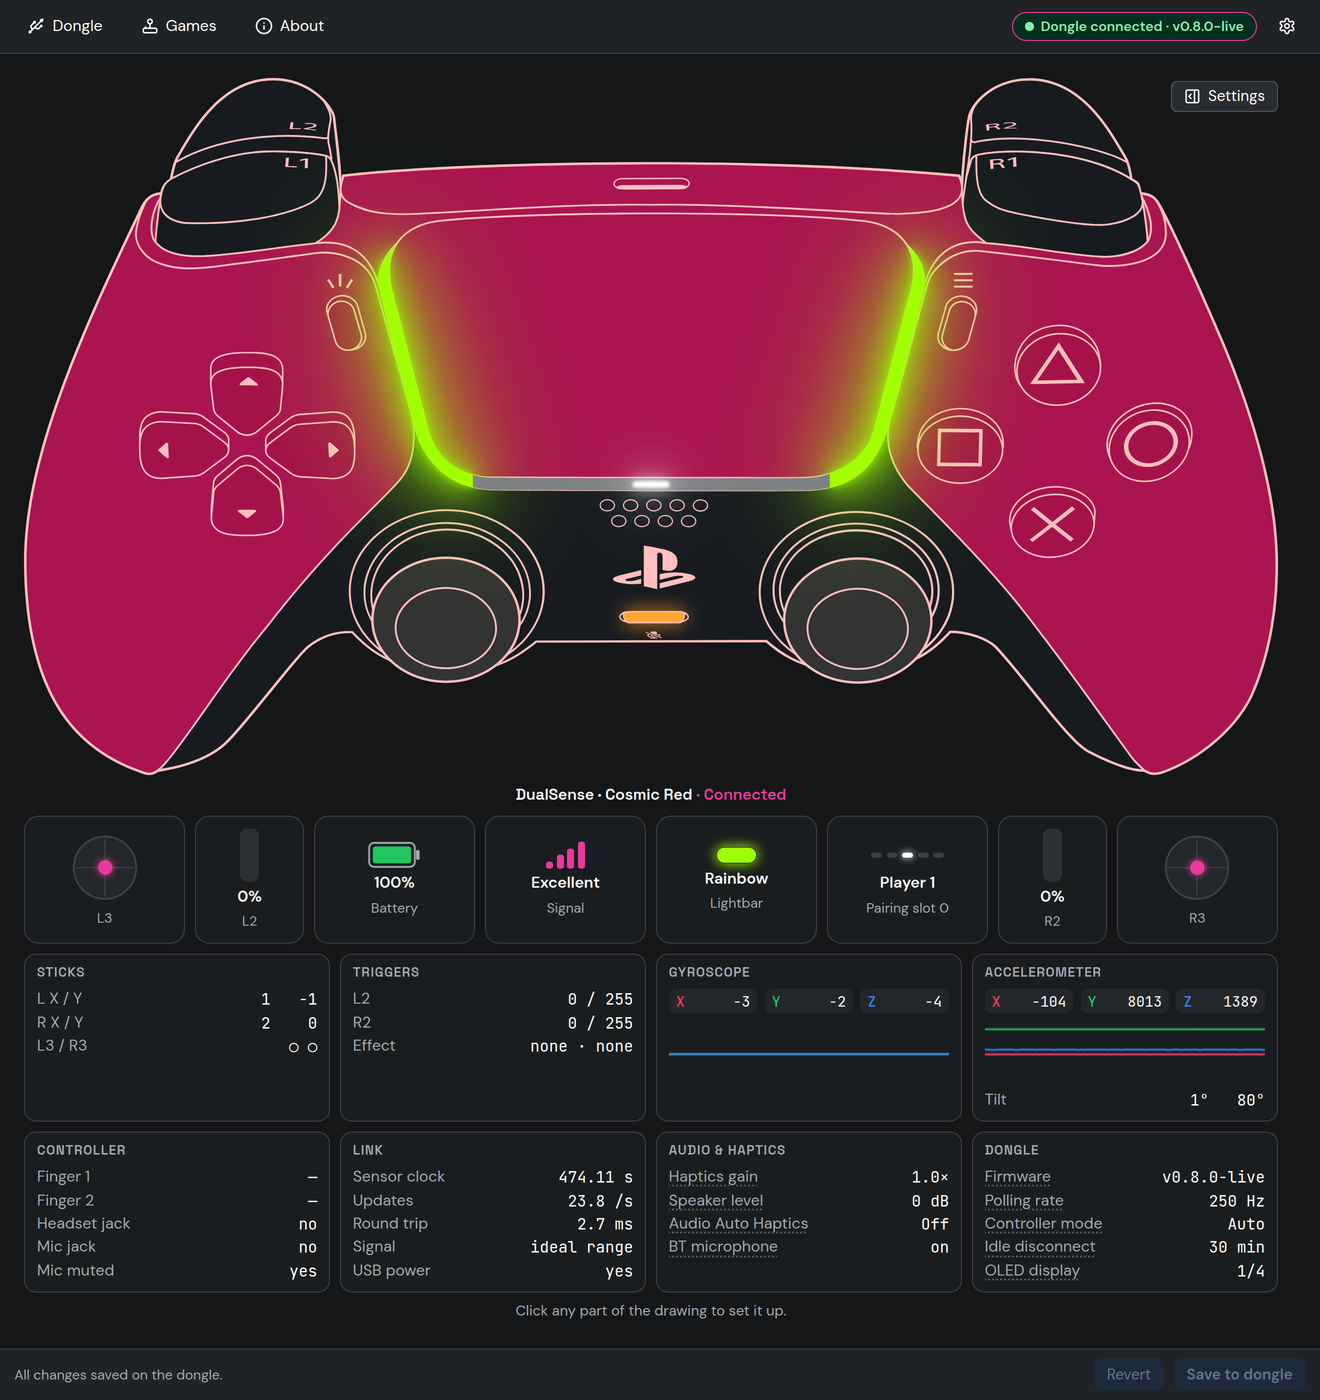
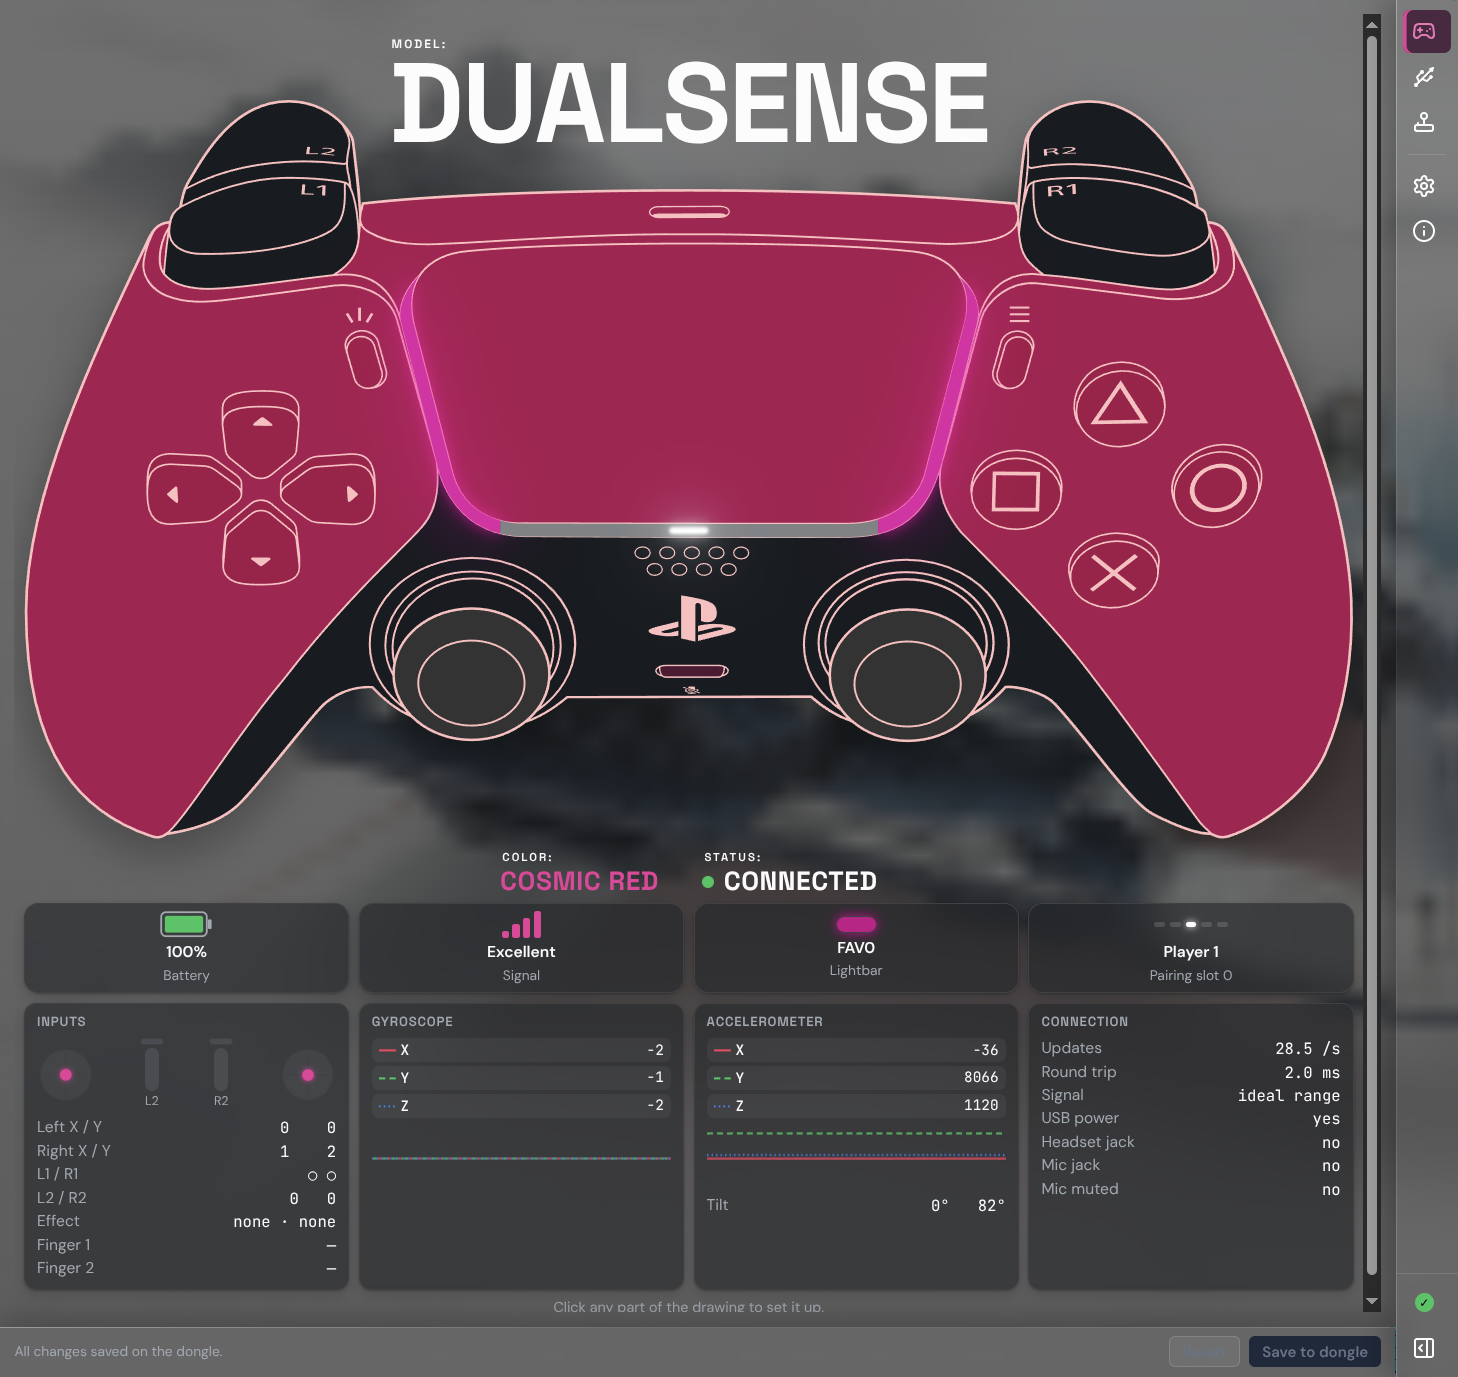
docs: guide screenshots in one fixed look; real hardware photo
13 app screenshots for docs/GUIDE.md (and the README's main image), all
taken with tools/screenshot_env.mjs in the saved look (docs/screenshots/
look.json), now pinning one game's art for every shot (Galactic Racer;
ds5.dev.backdropGame, honored only by ArtBackdrop, screenshots only).
The hardware picture is Marcy's photo of a finished dongle; the guide
now says to seat the OLED with KEY0/KEY1 away from the USB port, as
built. The setup-screen shot is skipped. Old, unused screenshots
removed (the marketing folder keeps its own full-size copies).

Backlog: guide and screenshots done.

diff --git a/src/desktop/live/ArtBackdrop.tsx b/src/desktop/live/ArtBackdrop.tsx
@@ -10,7 +10,7 @@
 import { useEffect, useRef, useState, useSyncExternalStore } from "react";
 import { knob, useKnob } from "../lookKnobs";
 import type { ColorwayColors } from "./colorways";
-import { useFlagPref } from "../storage";
+import { useFlagPref, readPref } from "../storage";
 import { artUrl } from "../games/types";
 
 export const BACKDROP_KEY = "ds5.artBackdropOff";
@@ -28,9 +28,14 @@ const subscribePage = (l: () => void) => {
   return () => pageListeners.delete(l);
 };
 
+// Screenshots only (tools/screenshot_env.mjs): one game's art everywhere,
+// named by launcher and id ("steam:4078430"), so every shot matches.
+const PIN_KEY = "ds5.dev.backdropGame";
+
 // The open game page's art, else the running game's, else the most recently
 // played games in turn.
 function useBackdropKeys(): string[] {
+  const pin = readPref(PIN_KEY);
   const page = useSyncExternalStore(subscribePage, () => pageGame);
   const desktop = window.desktop;
   const [keys, setKeys] = useState<string[]>([]);
@@ -65,6 +70,10 @@ function useBackdropKeys(): string[] {
       off();
     };
   }, [desktop]);
+  if (pin) {
+    const pinned = keys.find((k) => k.endsWith(`:${pin}`));
+    if (pinned) return [pinned];
+  }
   if (page) return [page];
   return running && keys.includes(running) ? [running] : keys;
 }

diff --git a/docs/BACKLOG.md b/docs/BACKLOG.md
@@ -21,8 +21,6 @@ _Idea_ (noted, not decided) · _Open_ (a known problem, not yet scheduled).
 
 | Item                         | Status                                                                                                                                                                                                                                                                                                                                                                                     | Priority | Detail                                       |
 | ---------------------------- | ------------------------------------------------------------------------------------------------------------------------------------------------------------------------------------------------------------------------------------------------------------------------------------------------------------------------------------------------------------------------------------------ | -------- | -------------------------------------------- |
-| Step-by-step guide           | **Agreed.** `docs/GUIDE.md`, shown in About -> Guide instead of the README: hardware (parts, headers, seating the OLED, a data cable, USB 2.0 port vs USB 3.0 radio noise), getting started, each page and panel with its own screenshot, troubleshooting. README trimmed to an overview + link                                                                                             | High     | -                                            |
-| Screenshots                  | **Agreed.** Last, after the fixes: one clean setup, one window size, for the guide, README and Discord                                                                                                                                                                                                                                                                                     | Med      | -                                            |
 | Hardware spot-check          | **Agreed.** Marcy: games on the 0.9.0 firmware (rumble, haptics, speaker, mic, calibration off/on); does a dongle restart need a replug                                                                                                                                                                                                                                                    | High     | -                                            |
 | Release gates                | **Agreed.** CI dry run; local auto-updater test 0.8.1 -> 0.9.0; version bump; `tools/release.sh 0.9.0` (only when Marcy says "release"); Discord announcement with the new screenshots                                                                                                                                                                                                     | High     | -                                            |
 

diff --git a/docs/GUIDE.md b/docs/GUIDE.md
@@ -26,10 +26,10 @@ Step by step, from the parts on your desk to every setting in the app. Each sect
 ### Putting it together
 
 1. **Headers:** solder them on (skip this with a Pico 2 WH).
-2. **The screen:** the OLED board plugs straight onto the Pico's headers, no wiring. Line up its **USB marking with the Pico's USB connector** (Waveshare's [product photos](https://www.waveshare.com/wiki/Pico-OLED-1.3) show it seated) and press it down evenly.
+2. **The screen:** the OLED board plugs straight onto the Pico's headers, no wiring. Seat it with its **KEY0 / KEY1 buttons at the end away from the Pico's USB port** (in the photo below, the USB cable goes in on the right) and press it down evenly.
 3. **Plug it in** (next section).
 
-![The Pico 2 W with the OLED board seated on top, USB end on the left](screenshots/guide-hardware.png)
+![A finished dongle: the Pico-OLED-1.3 seated on the Pico 2 W, KEY0 and KEY1 on the left, the USB cable going in on the right](screenshots/guide-hardware.png)
 
 ### Which USB port
 
@@ -43,8 +43,6 @@ The app includes the matching firmware, so this works offline.
 
 1. **A new Pico:** just plug it in. **A Pico with other firmware on it:** hold its **BOOTSEL** button while you plug it in.
 2. The app finds it and offers to **Install the firmware**. One click; keep it plugged in until it's done (your computer may also show a drive called RP2350: you don't need to open it).
-
-![The setup screen offering to install the firmware](screenshots/guide-setup.png)
 
 ### Pair your controller
 

diff --git a/docs/marketing/app/README.md b/docs/marketing/app/README.md
@@ -1,8 +1,8 @@
 # App screenshots (marketing)
 
 Full-resolution (2x) screenshots of the desktop app, taken live with a Cosmic
-Red DualSense on firmware v0.8. The README and the in-app Guide use half-size
-copies in `docs/screenshots/`.
+Red DualSense on firmware v0.8 (the 0.8 layout). The guide's own screenshots
+are in `docs/screenshots/`, taken in one fixed look with `tools/screenshot_env.mjs`.
 
 | File | Shows |
 | --- | --- |
